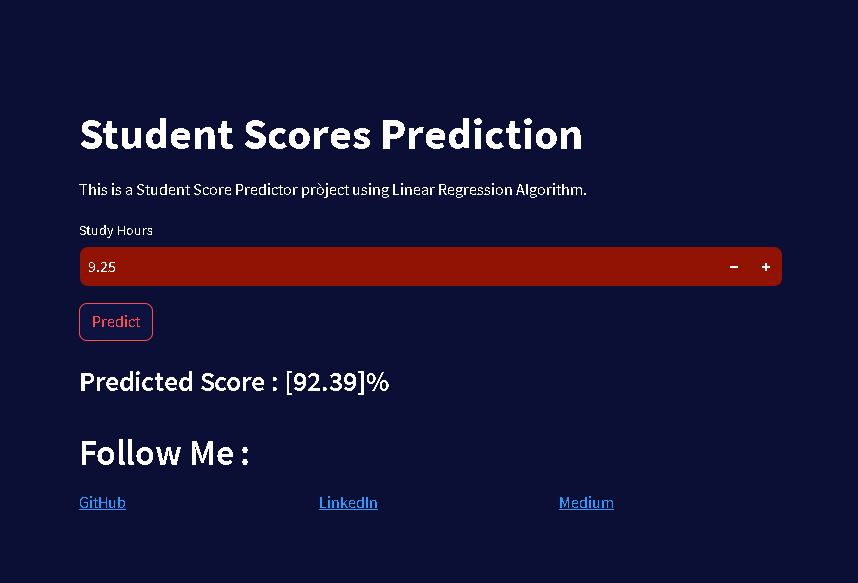
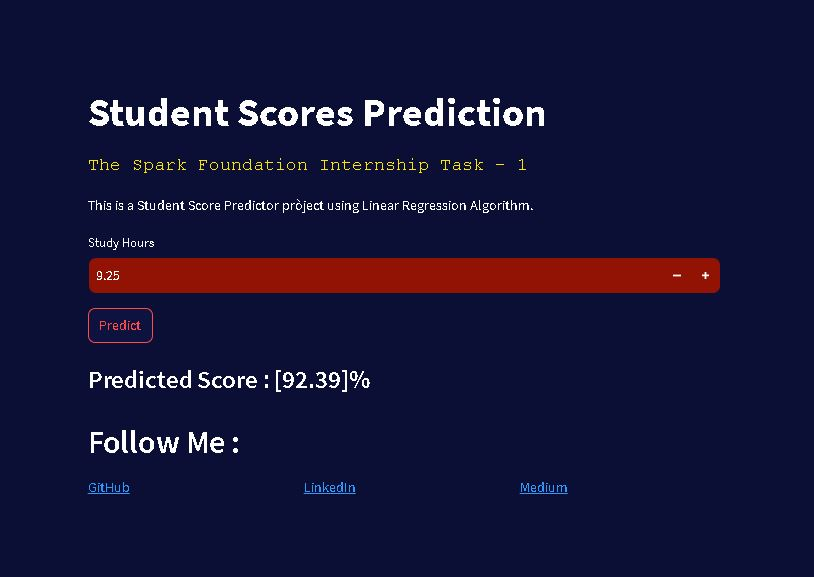
Add files via upload

diff --git a/TASK - 1 PREDICTION USING SUPERVISED LEARNING/lr_model_main.py b/TASK - 1 PREDICTION USING SUPERVISED LEARNING/lr_model_main.py
@@ -33,8 +33,10 @@ def predict(study_time=0):
 
 
 ########################################################
-st.title('Student Scores Prediction')  ## title of app
-st.write("""This is a Student Score Predictor prject using Linear Regression Algorithm. """)   ### description for app
+st.title('Student Scores Prediction' )  ## title of app
+original_title = '<p style="font-family:Courier; color:#FCE300; font-size: 20px;">The Spark Foundation Internship Task - 1</p>'
+st.markdown(original_title, unsafe_allow_html=True)
+st.write("""This is a Student Score Predictor pròject using Linear Regression Algorithm. """)   ### description for app
 study_hour = st.number_input("Study Hours")
 
 ps = predict(study_time=study_hour)
